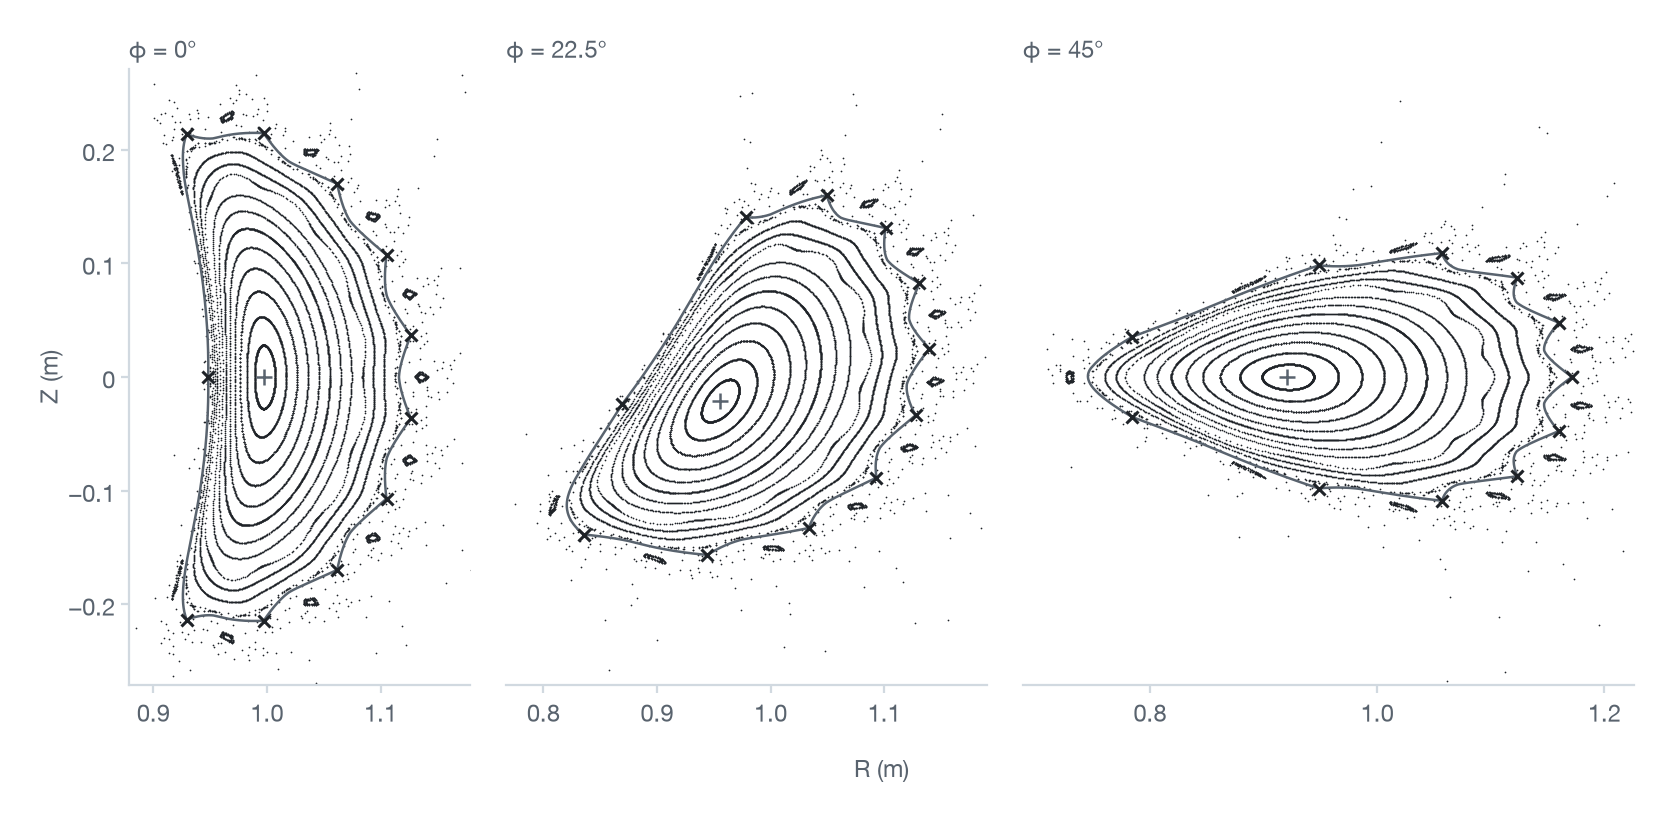
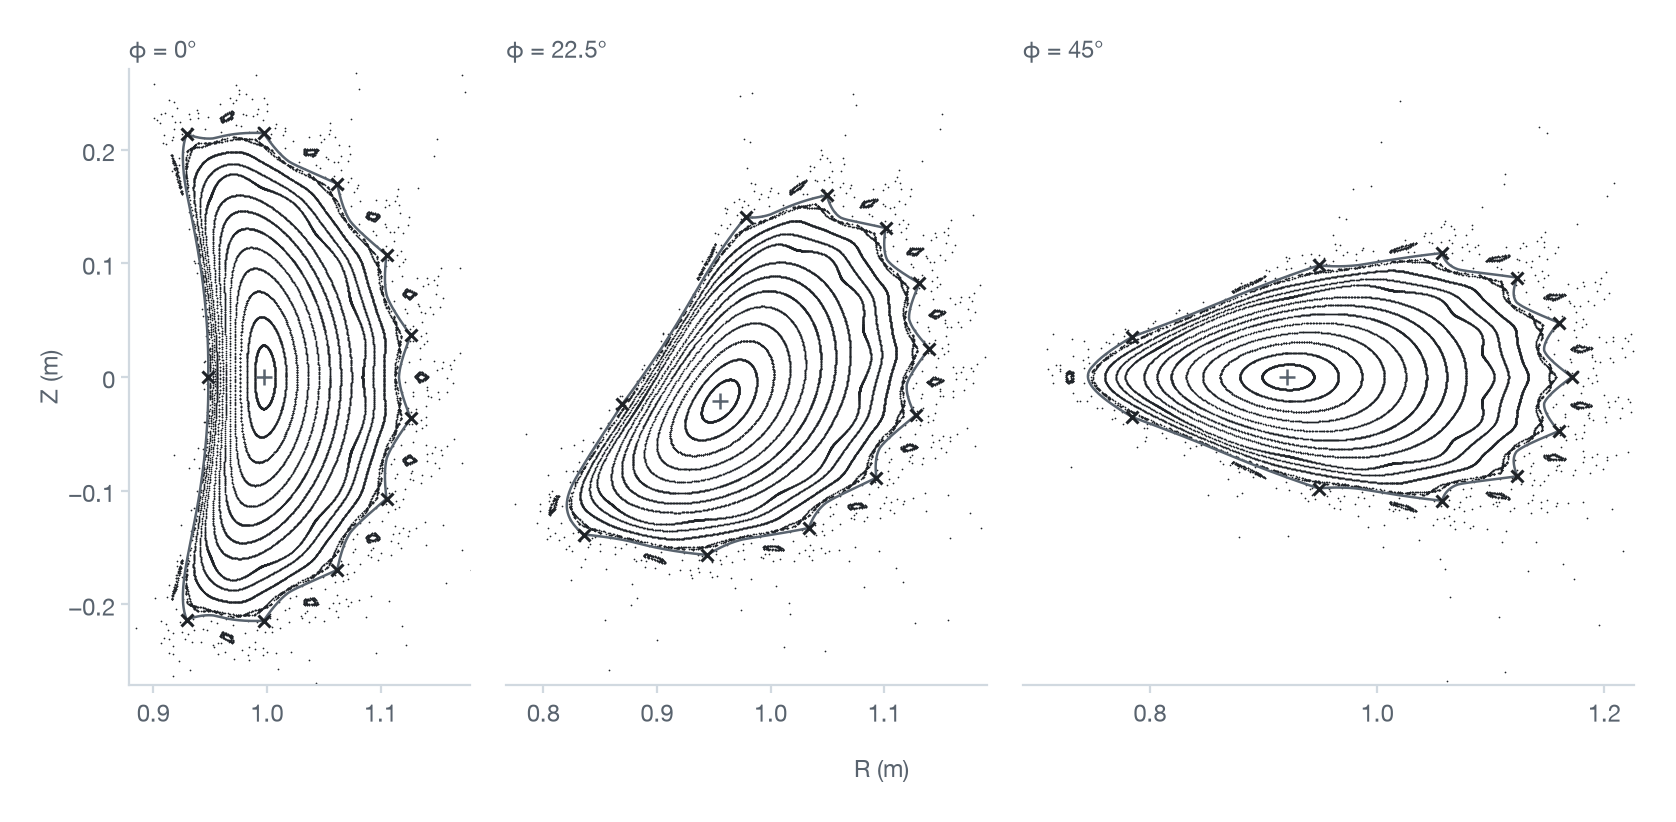
Usage: Poincaré sections as they now are, followed on until curves close at 838 pixels and transforms settle, the open lines named, transforms to their settled decimals, times and distances measured on a busy M4 and the pictures drawn again. render and poincare on the command line as their code read

diff --git a/src/torux/cli.py b/src/torux/cli.py
@@ -9,8 +9,8 @@
                [--jobs N] [--save DIR] [--coils NAME] [--currents saved|dofs]
     torux render SOURCE [SOURCE ...] FILE [--flux WB | --minor-radius M | --volume M3 | --largest] [--budget S]
                  [--nfp N] [--kind K] [--dark] [--closed] [--coils NAME] [--currents saved|dofs]
-    torux poincare SOURCE [FILE] [--planes DEG [DEG ...]] [--lines N] [--turns N] [--start R,Z ...] [--dark]
-                   [--nfp N] [--coils NAME] [--currents saved|dofs]
+    torux poincare SOURCE [SOURCE ...] [FILE] [--planes DEG [DEG ...]] [--lines N] [--turns N] [--start R,Z]
+                   [--dark] [--nfp N] [--kind K] [--coils NAME] [--currents saved|dofs]
     torux version
 
 solve prints the answer on stdout and, with --save, writes it: *.json (everything), input.<name> (VMEC input, cut
@@ -18,14 +18,16 @@ to --mpol and --ntor when they are given), *.vtk (the surface with |B|). --save 
 search (a size, the largest) says on stderr what it asks, how long it may take and each request as it ends.  The exit
 code is 0 for a verified surface, a certified or proved no-surface or a verified range, 2 for anything undetermined,
 1 for an error, a command line that cannot be read included.  render solves as solve does, prints the answer, and
-writes its picture (answer.render), with the same exit code, or 1 where no picture could be written.  Each subcommand is a pair of functions in COMMANDS.
+writes its picture (answer.render), with the same exit code, or 1 where no picture could be written.
 --coils and --currents are torux.load's which= and currents= for a SIMSOPT JSON source: which coil set of a file
 holding several (with several files, --coils once per file, - for one that needs none), and which of a Current
 object's two values where they differ.  In many, given once they apply to every design, and given once per SOURCE,
 in order, each to its own design, - for one that needs none.  poincare prints its lines (where each starts, its
 rotational transform, whether it left) and with FILE draws them, and where the lines take more than half a minute
-says on stderr about how long first.  check's --which is the surface's, and
---surface-currents and --mismatched-coils are check's surface_currents= and mismatched_coils=True.
+says on stderr about how long first.  --start is given once per line.  check's --which is the surface's, and
+--surface-currents and --mismatched-coils are check's surface_currents= and mismatched_coils=True.  render and
+poincare check that FILE can be written before any work, and Ctrl-C ends them in one line, with code 130.  Each
+subcommand is a pair of functions in COMMANDS.
 """
 from __future__ import annotations
 

diff --git a/docs/usage.md b/docs/usage.md
@@ -255,7 +255,7 @@ The answer in the look of the pictures at the top of the README: the coils in co
 
 It takes minutes where `plot` takes seconds, and the first picture in a process also compiles the tracer. The other page's picture of the same answer then takes no time, and the second of cut and closed the tracing alone. One size, 1,676 pixels wide, which is 838 on a screen of twice the density. It needs nothing beyond torux itself: no matplotlib.
 
-An answer with nothing of the plasma to draw (`undetermined`, `timeout`, `no_axis`, a torus that was not verified) is drawn as its coils alone. One that does not hold its coils raises ValueError, as `plot` does: an answer read back from its JSON, and one that ended before the field was built, which is an error or the verdict on a source that is not a stellarator (a tokamak's coils, perturbation coils, a dipole). `help(torux.render)` says what each mark is and what is decoration. From the shell: `torux render examples/quasr_0000954.json q954-closed.png --closed`.
+An answer with nothing of the plasma to draw (`undetermined`, `timeout`, `no_axis`, a torus that was not verified) is drawn as its coils alone. One that holds no coils raises ValueError before any work, saying why: an answer read back from its JSON (solve again), one that ended in an error, and the proof that a source which is not a stellarator has no surface (a tokamak's coils, perturbation coils, a dipole), in the proof's words. A path whose folder is not there or cannot be written is refused before the tracing too, and Ctrl-C stops the tracing within seconds, as a `KeyboardInterrupt`. `help(torux.render)` says what each mark is and what is decoration. From the shell: `torux render examples/quasr_0000954.json q954-closed.png --closed`.
 
 ## Poincaré sections
 
@@ -265,31 +265,31 @@ print(p)
 p.plot("w7x.png")                        # .png, .pdf or .svg, and dark=True for a dark page
 p.R, p.Z                                 # (lines, planes, crossings) in m, NaN once a line has left or ended
 p.start, p.iota, p.profile               # where each line starts, its rotational transform, (distance from axis, iota)
-p.left, p.left_at, p.followed           # whether each line left the machine, where (R, phi, Z), its length
+p.left, p.left_at, p.followed, p.open    # whether each line left the machine, where (R, phi, Z), its length, an open curve
 s.poincare().plot("q954.png")            # an answer's source, with the answer's surface drawn over the crossings
 ```
 
 ```
 Poincaré section       18 field lines of w7x through 3 planes at phi = 0°, 18°, 36°
-followed               120 turns (600 field periods) each, or until it left, 6 on to up to 2400 periods to close their
-                       curves
-with an iota           16, from 0.858132 to 1.1039
+followed               120 turns (600 field periods) each, or until it left, 5 on to up to 2400 periods to settle their
+                       rotational transforms and close their curves
+with an iota           16, from 0.85813 to 1.1039
 left the machine       2
-time                   288.4 s
+time                   434.7 s
 ```
 
 <picture>
   <source media="(prefers-color-scheme: dark)" srcset="../visuals/poincare-w7x-dark.png">
-  <img src="../visuals/poincare-w7x-light.png" width="838" alt="The Poincaré section torux.poincare draws for W7-X's standard coils: in three panels, at 0, 18 and 36 degrees, the crossings of its field lines as small dots of ink. Closed curves nest round the magnetic axis, marked with a plus: a bean, a tilted bean and a triangle. At the edge five islands sit in each plane, each a set of small nested loops, and beyond them the dots scatter.">
+  <img src="../visuals/poincare-w7x-light.png" width="838" alt="The Poincaré section torux.poincare draws for W7-X's standard coils: in three panels, at 0, 18 and 36 degrees, the crossings of its field lines as small dots of ink. Closed curves nest round the magnetic axis, marked with a plus: a bean, a tilted bean and a triangle. At the edge five islands sit in each plane, each a set of small nested loops, and beyond them rings of much smaller islands and dots that scatter.">
 </picture>
 
 Each dot is a field line crossing a plane of constant toroidal angle, by default the start, a quarter and a half of a field period. A plane stands for every plane a whole number of periods from it, so a line crosses it once a period. Above, W7-X's surfaces nest round the magnetic axis and its five islands sit at the edge.
 
-Nothing needs setting. Lines start outboard of the magnetic axis: 16 evenly out to the last of 32 trial lines that stayed in the machine for 80 field periods, and 2 beyond it. For up to three island chains no line goes round yet (the fewest islands first, at most 12), Newton's method finds an elliptic point and two lines start round it. Each line is followed 600 field periods. A line on a surface whose crossings still leave a gap along its curve wider than 1 % of the plane (a ring of dashes, near a rational) is followed on, up to four times as far, until the curve closes: a curve means a surface, separate loops mean islands. A line has left the machine where it turns back next to a coil, leaves the box round the conductors, or comes nearer a conductor than 0.3 of the axis' distance from it. `planes=` (radians), `lines=`, `turns=` and `starts=` override those choices, and nothing else does.
+Nothing needs setting. Lines start outboard of the magnetic axis: 16 evenly out to the last of 32 trial lines that stayed in the machine for 80 field periods, and 2 beyond it. For up to three island chains no line goes round yet (the fewest islands first, at most 12), Newton's method finds an elliptic point and two lines start round it. Each line is followed 600 field periods. A line whose rotational transform has not settled, or that lies on a surface and whose crossings still leave a gap along its curve of more than 2 pixels in the picture at 838 pixels across (a ring of dashes, near a rational), is followed on, doubling its length up to eight times as far, until its transform settles and its curve closes: a curve means a surface, separate loops mean islands. Only the field's own crossings are drawn, nothing between them. A line whose curve is still open after that is drawn in grey, and its row and `p.open` say so: its transform tells no island chain of 120 islands a period or fewer, so it lies on a surface so near a rational that its dashes have not closed, or goes round a chain finer than that. Of the designs below, three lines are: QUASR 954's outermost (gaps of 2.8 pixels), and a line of QUASR 797878 and of QUASR 219457 whose crossings gather into 237 and 157 places round their curves (mean turns within 1e-7 of 37/237 and 8/157 a period), dotted rings in grey. A line has left the machine where it turns back next to a coil, leaves the box round the conductors, or comes nearer a conductor than 0.3 of the axis' distance from it. `planes=` (radians), `lines=`, `turns=` and `starts=` override those choices, and nothing else does.
 
-A line's rotational transform is its mean turn about the axis per toroidal turn, signed as torux signs iota: the weighted Birkhoff average of its turn each field period. A line has one where that average has settled, its first half within 1e-4 rad a period of the whole: on a surface, and in an island chain, whose rational it then is. A line that wanders has none, nor does one so near a resonance that 600 periods cannot settle it.
+A line's rotational transform is its mean turn about the axis per toroidal turn, signed as torux signs iota: the weighted Birkhoff average of its turn each field period. A line has one where that average has settled, its first half within 1e-4 rad a period of the whole: on a surface, and in an island chain, whose rational it then is. It is printed and kept to the decimals that difference leaves, those whose unit is no smaller than it in the transform's own units: the average over the whole is nearer its limit than that over its first half, so every digit kept has settled. W7-X's lines round its five edge islands print 1.0000 and 1.000000. A line that wanders has none, nor does one so near a resonance that 4,800 periods cannot settle it.
 
-The tracer is Gragg-Bulirsch-Stoer of order 10 or 12, the cheaper at its steps, which are chosen for each source so that a period's truncation error is that of rounding, with its increments added by Kahan's compensated sum. Its field is the engine's to 1e-14: a coil far from a line is summed on every 2nd to 16th of its nodes where that was measured, round the magnetic axis, to stay within 1e-15 of the field's strength (2e-15 measured where the lines go). `s.poincare()` starts one more line on the answer's surface. On QUASR 954 that line stays within 3.5e-12 m of the verified surface in all three planes over its 1,200 field periods, and its rotational transform matches the answer's to 1.1e-13, twelve significant figures. On HSX's verified surface at 0.0359 Wb they are 1.6e-12 m and 1.2e-9. Its crossings and two other lines' lie within 4e-14 m over ten turns of those of torux's independent reference tracer, which shares no code with it.
+The tracer is Gragg-Bulirsch-Stoer of order 10 or 12, the cheaper at its steps, which are chosen for each source so that a period's truncation error is that of rounding, with its increments added by Kahan's compensated sum. Its field is the engine's to 1e-14: a coil far from a line is summed on every 2nd to 16th of its nodes where that was measured, round the magnetic axis, to stay within 1e-15 of the field's strength (4e-16 to 2.1e-15 measured at 4,000 of the crossings of QUASR 954, HSX and W7-X). `s.poincare()` starts one more line on the answer's surface. On QUASR 954 that line stays within 4e-12 m of the verified surface in all three planes over its 1,200 field periods, and its rotational transform, printed to the nine decimals it has settled to, is the answer's in every one (1.1e-10 apart). On HSX's verified surface at 0.0359 Wb the line stays within 2.5e-12 m, and its transform settles to six decimals, the answer's in every one. Its crossings and two other lines' lie within 5e-14 m over ten turns of those of torux's independent reference tracer, which shares no code with it.
 
 <picture>
   <source media="(prefers-color-scheme: dark)" srcset="../visuals/poincare-edge-dark.png">
@@ -298,7 +298,9 @@ The tracer is Gragg-Bulirsch-Stoer of order 10 or 12, the cheaper at its steps, 
 
 An answer's poincare draws its surface over the crossings, green where the independent check verified it, grey and dashed where not, and marks what a certificate holds: an island chain's elliptic points (circles), or the X line an edge certificate starts from (crosses) and the curve its manifolds make, which no surface crosses (grey). Above, `torux.solve("examples/quasr_1100073.json", budget_s=3300).poincare()`: the surfaces end inside the curve, and outside it lines wander and leave.
 
-On four threads of an Apple M4 shared with other work (load 8 to 12), QUASR's designs take 15 to 25 s: 954 in 23 s, 797878 in 25 s, 1100073 in 15 s and 219457 in 25 s. HSX takes 3 minutes and W7-X 5: their 48 and 70 coils need 14,976 and 18,400 nodes for the field where lines pass near them, and the ripple of 12 and 14 coils a field period 48 to 64 steps a period (954: 24). Of W7-X's 5 minutes, 2.6 go to the 18 lines' 600 periods and 2 to following six of them on to close their curves. A call whose lines will take more than half a minute says first about how long, as a search of `torux.solve` says what it asks: on the command line on standard error, in Python to the logger `torux`. From the shell, `torux poincare examples/w7x.json w7x.png` prints each line (where it starts, its rotational transform or when it left) and draws them, `--planes` in degrees.
+On four threads of an Apple M4 shared with other work (load 25 to 30 on its ten cores), QUASR's designs take half a minute to a minute: 1100073 in 30 s, 954 in 40 s, 797878 and 219457 in 55 s, and an answer's section about as long. HSX takes 3 to 4 minutes and W7-X 7 to 8: their 48 and 70 coils need 14,976 and 18,400 nodes for the field where lines pass near them, and the ripple of 12 and 14 coils a field period 48 to 64 steps a period (954: 24). Following lines on costs QUASR's designs one to two and a half times the 600 periods' time again (954: 11 s, then 24 s), HSX a fifth more and W7-X nearly three quarters more: of W7-X's 7 minutes, 4 go to the 18 lines' 600 periods and 3 to following five of them on. A call whose lines will take more than half a minute says first about how long, and again before it follows lines on, as a search of `torux.solve` says what it asks: on the command line on standard error, in Python to the logger `torux`. Ctrl-C stops it within seconds, as a `KeyboardInterrupt`. From the shell, `torux poincare examples/w7x.json w7x.png` prints each line (where it starts, its rotational transform or when it left) and draws them, `--planes` in degrees.
+
+A source whose field lines do not go round the machine has no section: `torux.poincare` says so in a sentence before any tracing, in the words `torux.solve` gives it (DIII-D's I-coils: their currents are antisymmetric under reflection in a meridional plane, so no field line goes round the machine), and so does a source with no magnetic axis where no line started across the box round its conductors goes once round. A start outside that box, angles beyond a turn (degrees given as radians), less than one field period or an answer given to `torux.poincare` instead of `answer.poincare()` are refused in a sentence too.
 
 ## Boozer spectrum and quasisymmetry
 
@@ -419,15 +421,19 @@ torux many SOURCE [SOURCE ...] --table FILE [--flux WB | --minor-radius M | --vo
             [--budget S] [--jobs N] [--save DIR] [--coils NAME] [--currents saved|dofs]
 torux render SOURCE [SOURCE ...] FILE [--flux WB | --minor-radius M | --volume M3 | --largest] [--budget S]
              [--nfp N] [--kind stellarator|tokamak|dipole] [--dark] [--closed] [--coils NAME] [--currents saved|dofs]
-torux poincare SOURCE [FILE] [--planes DEG [DEG ...]] [--lines N] [--turns N] [--start R,Z] [--dark] [--nfp N]
-            [--coils NAME] [--currents saved|dofs]
+torux poincare SOURCE [SOURCE ...] [FILE] [--planes DEG [DEG ...]] [--lines N] [--turns N] [--start R,Z]
+               [--dark] [--nfp N] [--kind stellarator|tokamak|dipole] [--coils NAME] [--currents saved|dofs]
 ```
 
 `--coils` and `--currents` are what `torux.load` takes as `which=` and `currents=` for a SIMSOPT JSON source: the coil set of a file holding several, by its `BiotSavart`'s name or index, and which of a `Current` object's two values to take where they differ ([formats](formats.md#simsopt-files-torux-refuses-rather-than-guess)). In `many` every SOURCE is a design of its own: given once, they apply to every design, and given once per SOURCE, in order, each applies to its own design, `-` for one that needs none. In `solve` and `check`, with several source files, `--coils` once is the first file's, and given once per file, in order, it is each file's, `-` for a file that needs none: `torux check a.json b.json surface.json --coils BiotSavart1 --coils BiotSavart2`, as `which=["BiotSavart1", "BiotSavart2"]` in Python. In `check`, `--which` is the surface's: `torux check file.json file.json --coils BiotSavart6 --which SurfaceXYZTensorFourier3`, and `--surface-currents` and `--mismatched-coils` are its `surface_currents=` and `mismatched_coils=True`.
 
 `solve` prints the answer on standard output and says on standard error what it is asking and, in a search, each request as it ends. It exits with 0 for a surface or a certified or proved no-surface, 2 for anything undetermined and nothing else, 1 for an error, a command line it cannot read included.
 
-`render` asks as `solve` does and prints the answer, then writes its [picture](#rendering) to FILE, a .png: `--dark` for a dark page, `--closed` for the machine closed. It exits as `solve` does, or with 1 where no picture could be written.
+`render` asks as `solve` does and prints the answer, then writes its [picture](#rendering) to FILE, a .png: `--dark` for a dark page, `--closed` for the machine closed. It exits as `solve` does, or with 1 where no picture could be written: a FILE that cannot be written is said before the solve, and a proof that the source has no surface, which keeps no coils, after the answer and before any tracing.
+
+`poincare` prints its [lines](#poincaré-sections) and, given FILE (.png, .pdf or .svg), draws them, `--planes` in degrees and `--start` once per line. A FILE that cannot be written is said before any tracing.
+
+Ctrl-C ends `render` and `poincare` within seconds in one line, `stopped: nothing written`, with code 130.
 
 ## Budget, memory and threads
 

diff --git a/NOTICE.md b/NOTICE.md
@@ -45,6 +45,8 @@ The pictures are torux's own renderings. The coils and magnets drawn in them are
 
 `visuals/render-*`: the coils of QUASR design 954, from QUASR v4 (as above, MIT), as `torux.solve("examples/quasr_0000954.json").render` draws them, cut and closed.
 
+`visuals/poincare-*`: the field lines of the coils of Wendelstein 7-X, from the coil set shipped with [simsopt](https://github.com/hiddenSymmetries/simsopt) 1.11 (MIT), and of QUASR design 1100073, from QUASR v4 (as above, MIT), as `torux.poincare` and `answer.poincare` draw them.
+
 `method/figures/`: torux's surfaces and certificates for the coils of HSX and of QUASR designs 954, 219457 and 1100073, the bundled inputs above (MIT), lettered in the Computer Modern faces that ship with [matplotlib](https://matplotlib.org), as outlines.
 
 GPL-3.0: [gnu.org/licenses/gpl-3.0](https://www.gnu.org/licenses/gpl-3.0.html). LGPL-3.0: [gnu.org/licenses/lgpl-3.0](https://www.gnu.org/licenses/lgpl-3.0.html). CC BY 4.0: [creativecommons.org/licenses/by/4.0](https://creativecommons.org/licenses/by/4.0/). Every picture is a new rendering of the geometry in the files named. Of those files, only the ones listed under bundled inputs are redistributed here.

diff --git a/docs/code.md b/docs/code.md
@@ -1,6 +1,6 @@
 # Where things are
 
-`src/torux`, about 48,000 lines of Python. Each module says in its own docstring what it does and why it is right. This is the map, and [the method](../method/README.md) is the explanation.
+`src/torux`, about 55,000 lines of Python. Each module says in its own docstring what it does and why it is right. This is the map, and [the method](../method/README.md) is the explanation.
 
 | | |
 |---|---|
@@ -12,6 +12,7 @@
 | `load.py`, `sources.py` | `load`: a source from files, a QUASR number, a live SIMSOPT or DESC object |
 | `plot.py`, `boozer.py` | the picture, and the Boozer spectrum and quasi-symmetry |
 | `render.py`, `pathtrace.py` | `answer.render`: the answer as one path-traced picture in the README's look, cut open or closed |
+| `poincare_section.py`, `poincare_trace.py` | `poincare`: field lines through planes of constant toroidal angle, and their tracer |
 | `cli.py` | the `torux` command |
 | `api.py` | the solver's one call per request: a stated budget, a truthful outcome |
 | `source.py` | what a source is: filaments, polygons, segments, dipoles, rings, conductors |
